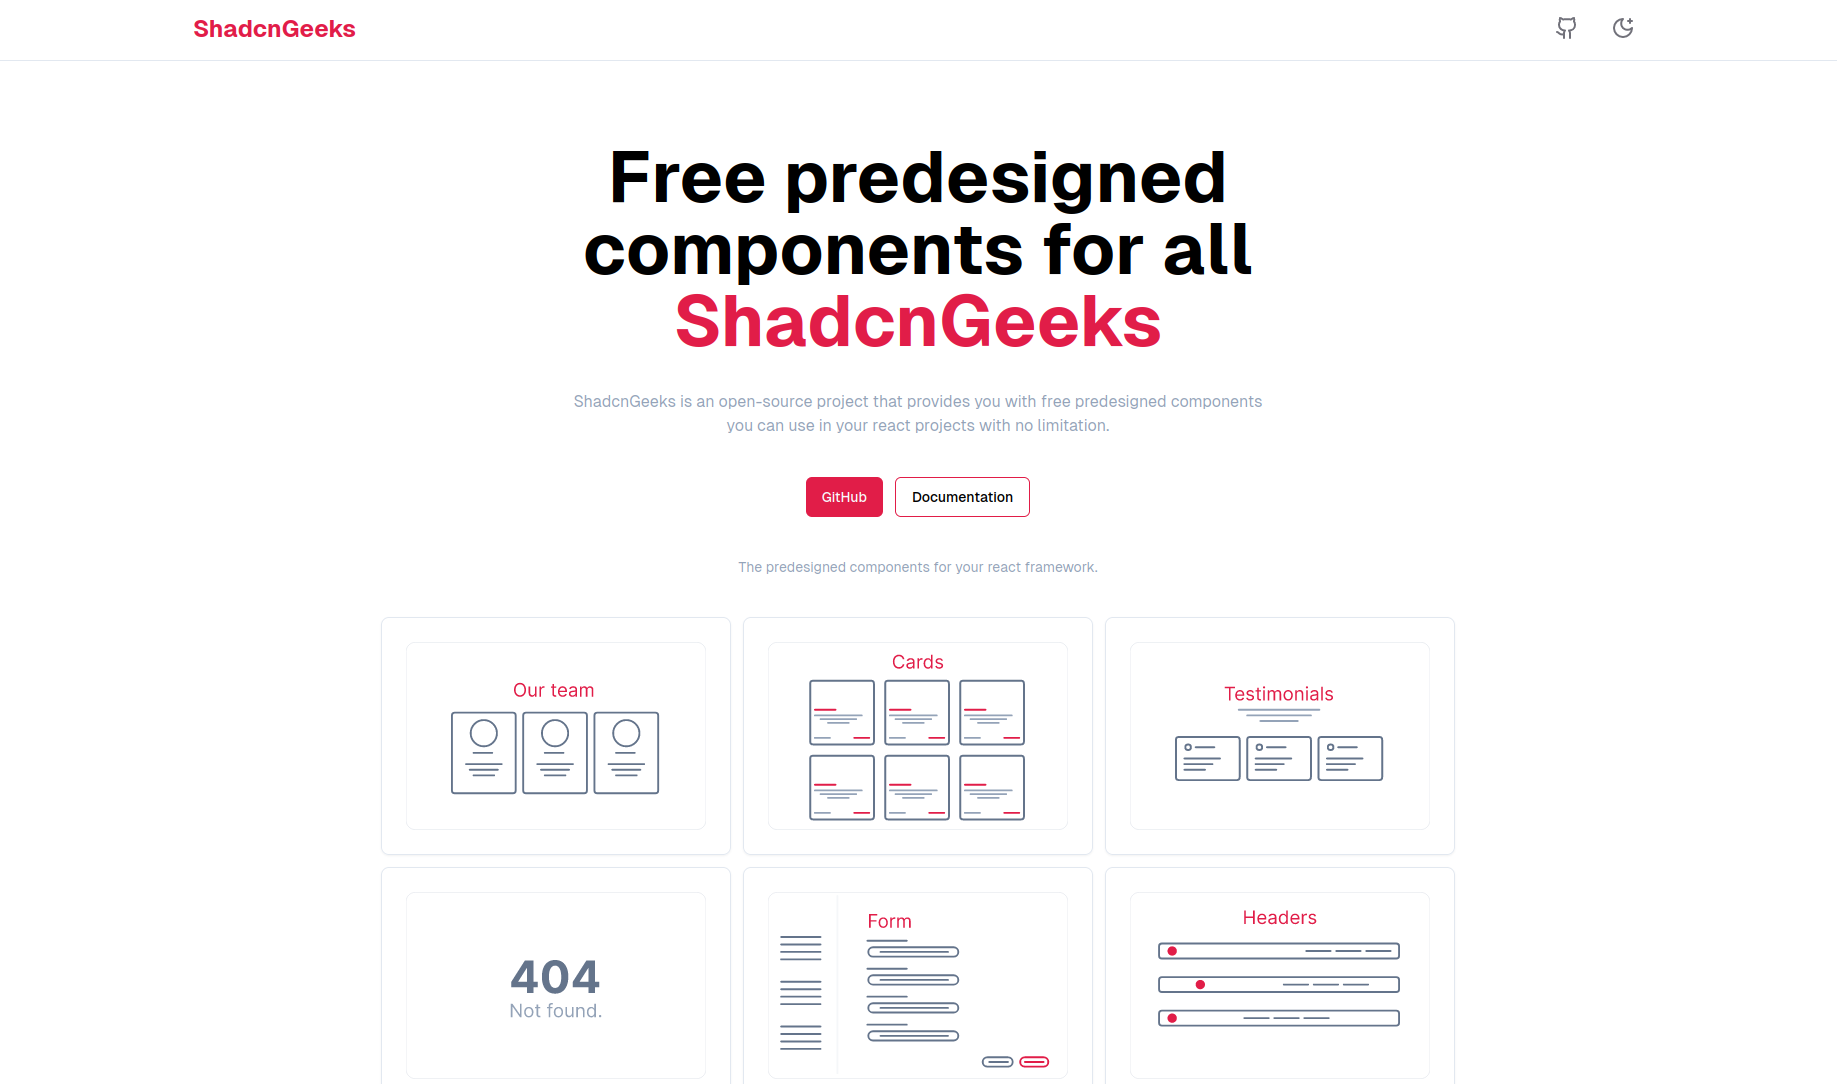
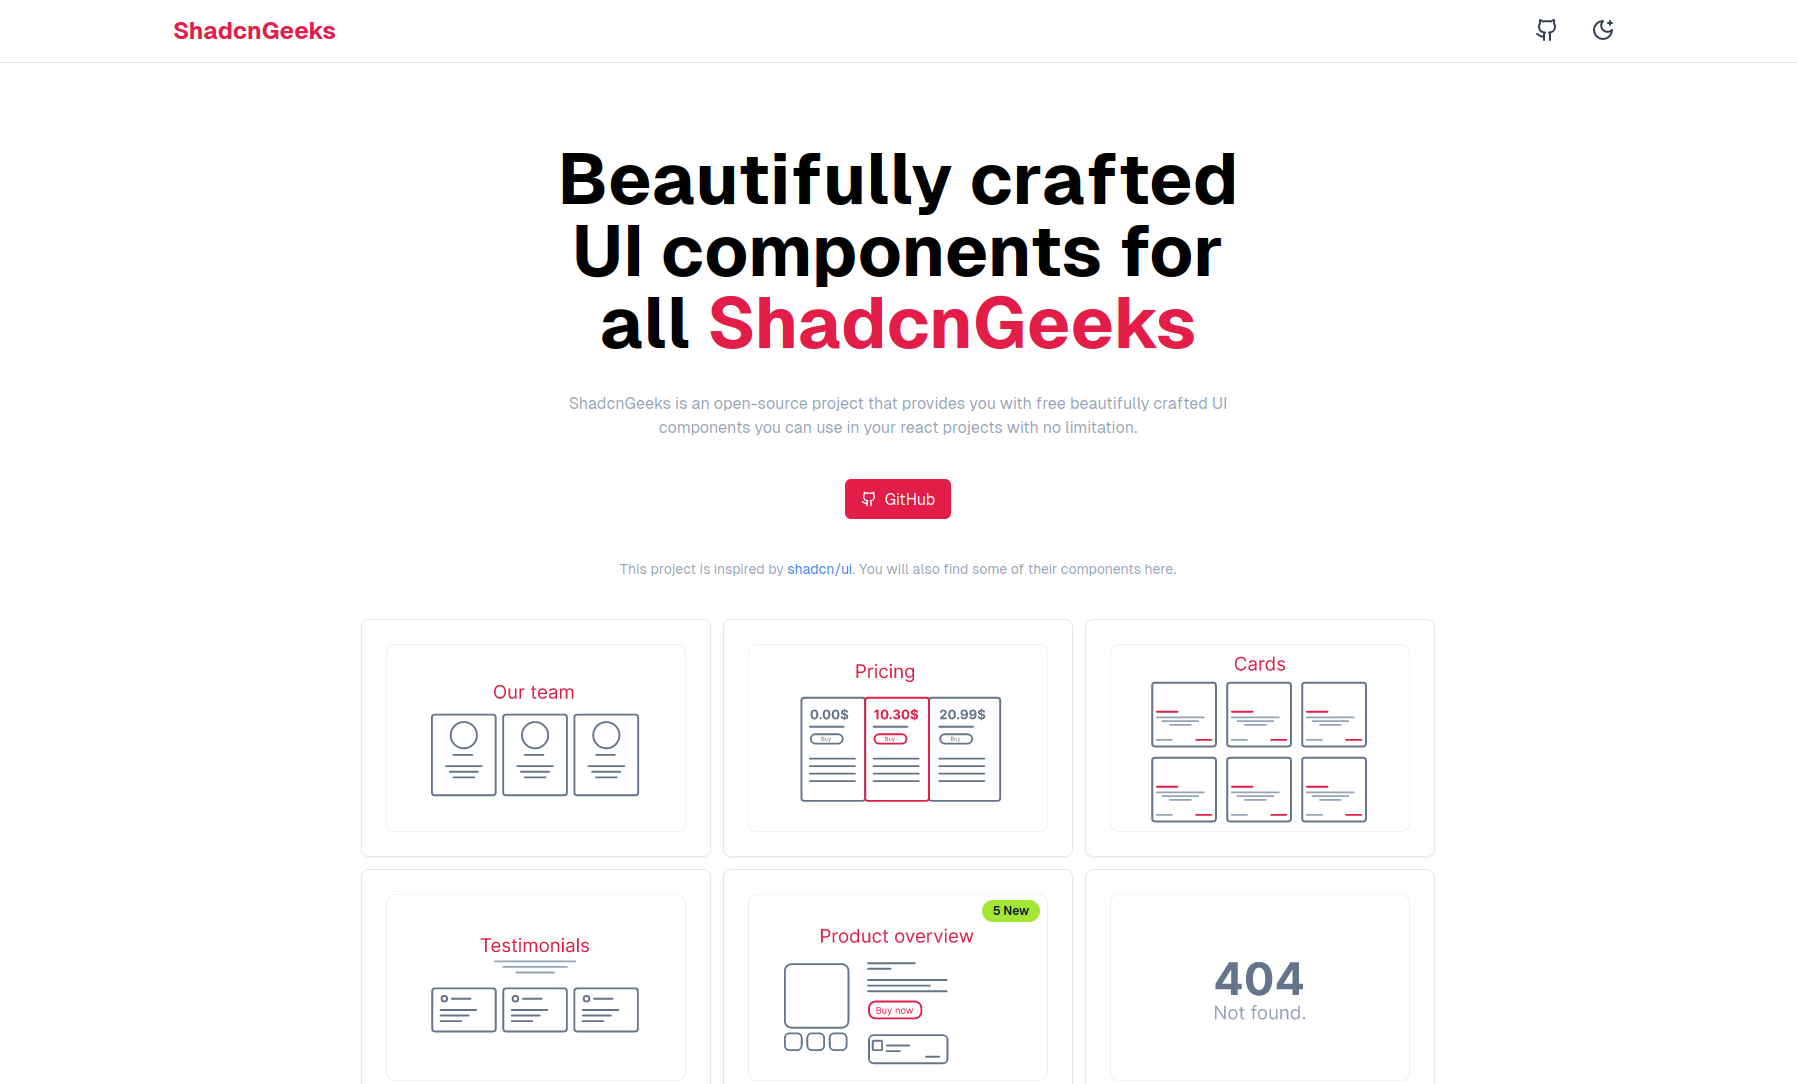
Optimize

diff --git a/components/www/index.tsx b/components/www/index.tsx
@@ -14,12 +14,12 @@ function Homepage() {
       <div className="space-y-4 md:space-y-10 dark:text-white px-4">
         <div className="lg:w-[700px] text-center mx-auto">
           <h1 className="text-3xl md:text-5xl lg:text-7xl font-bold">
-            Free predesigned components for all{" "}
+            Beautifully crafted UI components for all{" "}
             <span className="text-rose-600">ShadcnGeeks </span>
           </h1>
           <h2 className="font-normal mt-3 md:mt-8 text-slate-400">
             ShadcnGeeks is an open-source project that provides you with free
-            predesigned components you can use in your react projects with no
+            beautifully crafted UI components you can use in your react projects with no
             limitation.
           </h2>
         </div>
@@ -41,9 +41,9 @@ function Homepage() {
               className="text-blue-500"
               href={"https://ui.shadcn.com/"}
             >
-              shadcn
+              shadcn/ui
             </Link>
-            . You will also find some predesigned components from shadcn here.
+            . You will also find some of their components here.
           </p>
         </div>
       </div>

diff --git a/app/layout.tsx b/app/layout.tsx
@@ -1,4 +1,4 @@
-import type { Metadata } from "next";
+import type { Metadata, Viewport } from "next";
 
 import "./globals.css";
 
@@ -20,17 +20,22 @@ export const metadata: Metadata = {
   metadataBase: new URL(siteConfig.url),
   description: siteConfig.description,
   keywords: [
+    "UI",
     "Free",
     "React",
     "Shadcn",
     "Next.js",
+    "Crafted",
+    "Designed",
     "Radix UI",
+    "Shadcn/ui",
     "Components",
     "ShadcnGeeks",
     "Predesigned",
     "Open Source",
     "Tailwind CSS",
     "Server Components",
+    "Client Components",
   ],
   authors: [
     {
@@ -62,6 +67,13 @@ export const metadata: Metadata = {
   },
   manifest: `${siteConfig.url}/site.webmanifest`,
 };
+
+export const viewport: Viewport = {
+  themeColor: [
+    { media: "(prefers-color-scheme: light)", color: "white" },
+    { media: "(prefers-color-scheme: dark)", color: "#020617" },
+  ],
+}
 
 const fontMono = FontMono({
   subsets: ["latin"],

diff --git a/config/site.ts b/config/site.ts
@@ -4,7 +4,7 @@ export const siteConfig = {
   ogImage:
     "https://shadcngeeks.vercel.app/_next/image?url=%2Fimages%2Fog.png&w=1080&q=75",
   description:
-    "An open-source project that provides you with free beautifully predesigned components you can use in your react projects with no limitation.",
+    "An open-source project that provides you with beautifully crafted UI's you can use in your react projects for free.",
   links: {
     github: "https://github.com/shadcngeek/shadcngeeks",
   },
